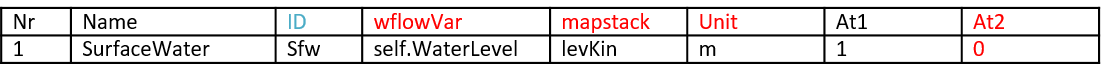
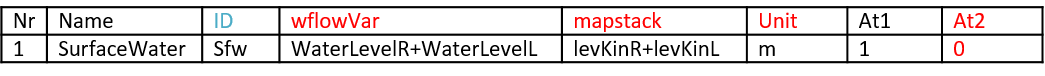
Lake update

Changed region(s): [[0.0, 0.0789, 1.0, 0.8158], [0.0, 0.1579, 0.1225, 0.3947], [0.7962, 0.5263, 0.8268, 0.6053]]

diff --git a/wflow/wflow_sbm.py b/wflow/wflow_sbm.py
@@ -1519,14 +1519,14 @@ class WflowModel(pcraster.framework.DynamicModel):
             
             np_lakeoutflowfunc_old = pcr.pcr2numpy(self.LakeOutflowFunc, 0)
             self.LakeOutflowFunc = pcr.ifthenelse(
-                    pcr.pcrand(self.LakeOutflowFunc == 3, self.LakeStorFunc == 1),
-                    self.LakeOutflowFunc,
-                    2
+                    pcr.pcrand(self.LakeOutflowFunc == 3, self.LakeStorFunc != 1),
+                    2,
+                    self.LakeOutflowFunc
                     )
             self.LakeOutflowFunc = pcr.ifthenelse(
-                    pcr.pcrand(self.LakeOutflowFunc == 3, self.Lake_e == 2.0),
-                    self.LakeOutflowFunc,
-                    2
+                    pcr.pcrand(self.LakeOutflowFunc == 3, self.Lake_e != 2.0),
+                    2,
+                    self.LakeOutflowFunc
                     )
             np_lakeoutflowfunc = pcr.pcr2numpy(self.LakeOutflowFunc, 0)
             if np_lakeoutflowfunc_old.sum() != np_lakeoutflowfunc.sum():

diff --git a/wflow/wflow_hbv.py b/wflow/wflow_hbv.py
@@ -644,13 +644,13 @@ class WflowModel(pcraster.framework.DynamicModel):
             np_lakeoutflowfunc_old = pcr.pcr2numpy(self.LakeOutflowFunc, 0)
             self.LakeOutflowFunc = pcr.ifthenelse(
                     pcr.pcrand(self.LakeOutflowFunc == 3, self.LakeStorFunc == 1),
-                    self.LakeOutflowFunc,
-                    2
+                    2,
+                    self.LakeOutflowFunc
                     )
             self.LakeOutflowFunc = pcr.ifthenelse(
                     pcr.pcrand(self.LakeOutflowFunc == 3, self.Lake_e == 2.0),
-                    self.LakeOutflowFunc,
-                    2
+                    2,
+                    self.LakeOutflowFunc
                     )
             np_lakeoutflowfunc = pcr.pcr2numpy(self.LakeOutflowFunc, 0)
             if np_lakeoutflowfunc_old.sum() != np_lakeoutflowfunc.sum():

diff --git a/wflow/wflow_emwaq.py b/wflow/wflow_emwaq.py
@@ -2053,6 +2053,8 @@ def main(argv=None):
     if os.path.exists(emiFile):
         includeEmi = True
         emiData = pd.read_csv(emiFile, sep = sepcsv, header=0)
+    else:
+        includeEmi = False
     
     logger.info("Nb of compartments: " + str(len(comp)))
     logger.info("Nb of boundaries: " + str(len(bound)))

diff --git a/doc/wflow_emwaq.rst b/doc/wflow_emwaq.rst
@@ -1,18 +1,18 @@
 wflow_emwaq Module
 ==================
 
-The wflow\_emwaq module provides a set of functions to create and link a Delft3D-WAQ or D-Emission model to a wflow model. The module allows to both converts static and dynamic data from wflow\_sbm to readable structure 
-and flow data used to set up an emission or a water quality model in Delft3D (later referred to as D-Emission and D-WAQ).
+The wflow\_emwaq module provides a set of functions to create and link a Delft3Delwaq or D-Emission model to a wflow model. The module allows to both converts static and dynamic data from wflow\_sbm to readable structure, flow and emission 
+data used to set up an emission or a water quality model (later referred to as D-Emission and Delwaq).
 
-It is an extension of the wflow\_delwaq module that only handles the surface water for a D-WAQ model. In addition, the script can aggregate results from wflow cells to build an emission/water quality model at the sub-catchment 
+It is an extension of the wflow\_delwaq module that only handles the surface water for a Delwaq model. In addition, the script can aggregate results from wflow cells to build an emission/water quality model at the sub-catchment 
 scale instead. The module has yet only been tested for wflow\_sbm but could as well be applied to other wflow models.
 
-Basic concepts on the structure of wflow and D-Emission/WAQ
+Basic concepts on the structure of wflow and D-Emission/Delwaq
 -----------------------------------------------------------
 The wflow\_sbm model is a fully distributed hydrologic model working on a regular grid of cells. Each cell is composed of several layers (or water buckets) such as open water, the unsaturated store or saturated store 
 of the soil… (figure below) The link between each cell (or direction of the lateral water flow) is then defined according to the local drain direction map (ldd) which indicates which of the cell neighbours has the lowest elevation.
 
-D-Emission or D-WAQ are unstructured models. They are composed of unordered segments. Contrary to a wflow cell which contains several layers a D-Emission/WAQ segment only represent one layer, called a compartment. 
+D-Emission or Delwaq are unstructured models. They are composed of unordered segments. Contrary to a wflow cell which contains several layers a D-Emission/WAQ segment only represent one layer, called a compartment. 
 This means that one wflow cell is represented by several segments in D-Emission/WAQ: one for the open water, one for the unsaturated store, one for the saturated store… The direction of the flows in D-Emission/WAQ between 
 each segment is defined in the pointer file. Contrary to wflow ldd which only needs to define the direction of lateral flows, the pointer file therefore also needs to indicate the direction of vertical flows (flows between 
 the different layers/compartments of a same wflow cell). This also means that external flows coming to/out of a wflow cell (for example precipitation from the atmosphere) are defined in the pointer as flows between a segment 
@@ -41,11 +41,11 @@ wflow\_emwaq module is run to convert the outputs of wflow\_sbm into several fil
 wflow\_sbm and via three csv tables that selects the compartments, fluxes and boundaries that the user wants to include in the D-Emission/WAQ models. Finally, the links to the different files created by the wflow\_emwaq 
 module are written in D-Emission/WAQ main input file and the emission and water quality model can be run.
 
-.. figure:: _images/emwaq_scheme.png
+.. figure:: _images/emwaq_scheme.jpg
     :width: 400px
     :align: center
 
-    Scheme of the coupling between wflow and D-Emission-D-WAQ.
+    Scheme of the coupling between wflow and D-Emission-Delwaq.
 
 
 Setting up the coupling
@@ -62,7 +62,7 @@ layers/compartments of a wflow cell with their corresponding volumes.
 
     Complete wflow scheme.
 
-For example, for a simple D-WAQ run for the surface water with fraction calculation, only the surface water compartment is needed and all the fluxes coming in/out of it as shown in the left part of the following figure. 
+For example, for a simple Delwaq run for the surface water with fraction calculation, only the surface water compartment is needed and all the fluxes coming in/out of it as shown in the left part of the following figure. 
 In that case, the other compartments are turned into boundaries. In addition, as there is already a wflow variable that sums up all the in/outflows from the surface water (self.Inwater), the scheme can be simplified with 
 just one boundary and flow (right part of the following figure).
 
@@ -70,7 +70,7 @@ just one boundary and flow (right part of the following figure).
     :width: 640px
     :align: center
 
-    Compartments and fluxes needed for a D-WAQ fraction model (left: with all the fluxes, right: simplified).
+    Compartments and fluxes needed for a Delwaq fraction model (left: with all the fluxes, right: simplified).
 
 Once the needed compartments and fluxes have been defined, they have to be translated into inputs for the wflow\_emwaq module. This is done by editing the csv tables compartments.csv, fluxes.csv and boundaries.csv. 
 
@@ -79,12 +79,12 @@ The compartments.csv file is a table composed of eight columns (Table 1, columns
 -  Nr: number of the compartment. This field is not used by the python script of the module but is defined for user information.
 -  ID: simplified identifier for the compartment, usually a few letters. The user can choose any name but IDs must be consistent with the ones in the fluxes.csv and boundaries.csv files.
 -  Name: name of the compartment. This field is not used by the python script of the module but is defined for user information.
--  wflowVar: wflow\_sbm variable representing the volume of the compartment (as in the complete scheme above). If the compartment isn’t defined or doesn’t have a volume defined in wflow\_sbm, for example Sewage or Paved, the keyword ZeroMap can be used. 
--  mapstack: name of the PCRaster or NetCDF mapstack (storage of the output variables). Mapstack are defined in the wflow_sbm ini file by the user. Note that the maximum allowed number of characters is eight. If the compartment doesn’t have a volume defined in wflow_sbm, for example Paved or Unpaved, the keyword ZeroMap can be used.
--  Unit: unit of the compartment volume, usually either mm or m3 for wflow volumes. If the volume is in mm, the script will convert it into m3 which is the standard for D-WAQ.
+-  wflowVar: wflow\_sbm variable representing the volume of the compartment (as in the complete scheme above). If the compartment isn’t defined or doesn’t have a volume defined in wflow\_sbm, for example Sewage or Paved, the keyword ZeroMap can be used. Several wflow variables can be summed up to create one WAQ flux using '+' symbol between variables.
+-  mapstack: name of the PCRaster or NetCDF mapstack (storage of the output variables). Mapstack are defined in the wflow_sbm ini file by the user. Note that the maximum allowed number of characters is eight. If the compartment doesn’t have a volume defined in wflow_sbm, for example Paved or Unpaved, the keyword ZeroMap can be used. Several wflow mapstacks can be summed up to create one WAQ flux using '+' symbol between mapstacks.
+-  Unit: unit of the compartment volume, usually either mm or m3 for wflow volumes. If the volume is in mm, the script will convert it into m3 which is the standard for Delwaq.
 -  At1, At2: D-Emission/WAQ attributes of the compartments. Usually attribute 1 specifies if the compartments is active or passive and attribute 2 specifies the type of the compartment (0 for surface water in 1D/2D models… see D-Emission/WAQ documentation). Here it is important that At2 is set to 0 for the Surface Water compartment and other numbers for the others.
 
-Table 1: Example of the compartmemts.csv file for a D-WAQ fraction model
+Table 1: Example of the compartmemts.csv file for a Delwaq fraction model
 
 .. figure:: _images/compartmentcsv.png
     :width: 640px
@@ -96,7 +96,7 @@ The boundaries.csv file, which is not used by the script but for user informatio
 -  ID: simplified identifier for the boundary, usually a few letters. The user can choose any names but IDs must be consistent with the ones in the fluxes.csv and compartments.csv files.
 -  Name: name of the boundary. This field is not used by the python script of the module but is defined for user information.
 
-Table 2: Example of the boundaries.csv file for a D-WAQ fraction model
+Table 2: Example of the boundaries.csv file for a Delwaq fraction model
 
 .. figure:: _images/boundarycsv.png
     :width: 640px
@@ -108,13 +108,13 @@ The fluxes.csv file is a table composed of nine columns (Table 3, columns in red
 -  Name: name of the flux. This field is not used by the python script of the module but is defined for user information. For a coupling with D-Emission, this field is used to create the parameters name of the hydrology file. An “f” will be added at the beginning of the name if the flux unit is in fraction.
 -  From: simplified identifier for the compartment or boundary where the flow comes from, usually a few letters. The user can choose any name but IDs must be consistent with the ones in the compartments.csv and boundaries.csv files.
 -  To: simplified identifier for the compartment or boundary where the flow goes to, usually a few letters. The user can choose any name but IDs must be consistent with the ones in the compartments.csv and boundaries.csv files.
--  wflowVar: wflow_sbm variable representing the flux (as in Figure 3). If the flux is not defined in wflow_sbm, for example flux between the Sewage compartment and Surface Water in an emission model, the keyword ZeroMap can be used. 
--  mapstack: name of the PCRaster or NetCDF mapstack (storage of the output variables). Mapstack are defined in the wflow_sbm ini file by the user. Note that the maximum allowed number of characters is eight. If the flux is not defined in wflow_sbm, for example flux between the Sewage compartment and Surface Water in an emission model, the keyword ZeroMap can be used.
--  Unit: unit of the flux, usually either mm or m3/s for wflow fluxes. If the flux is in mm, the script will convert it into m3/s which is the standard for D-WAQ or D-Emission.
--  EmPointerHyd: specificity of the emission model. In the coupling between wflow and D-Emission, both the pointer file between each segment and actual fluxes data (hydrology.bin file) are saved. While the two files are consistent in D-WAQ, this is not the case for D-Emission where some fluxes may only be present in the pointer but not the hydrology file and vice-versa. To take that into account the following keywords are used: P for a flux only present in the pointer file, H for a flux only present in the hydrology file and PH for a flux present in both. Note: D-Emission also needs an additional flow recorded in the hydrology file which is the “TotalFlow” that sums up some of wflow\_sbm fluxes to the surface water. If a wflow flux is needed for the calculation of the “TotalFlow”, the keywords T, PT, HT or PHT are used depending if the flow is also needed for the pointer and/or hydrology file. 
+-  wflowVar: wflow_sbm variable representing the flux (as in Figure 3). If the flux is not defined in wflow_sbm, for example flux between the Sewage compartment and Surface Water in an emission model, the keyword ZeroMap can be used. Several wflow variables can be summed up to create one WAQ flux using '+' symbol between variables.
+-  mapstack: name of the PCRaster or NetCDF mapstack (storage of the output variables). Mapstack are defined in the wflow_sbm ini file by the user. Note that the maximum allowed number of characters is eight. If the flux is not defined in wflow_sbm, for example flux between the Sewage compartment and Surface Water in an emission model, the keyword ZeroMap can be used. Several wflow mapstacks can be summed up to create one WAQ flux using '+' symbol between mapstacks.
+-  Unit: unit of the flux, usually either mm or m3/s for wflow fluxes. If the flux is in mm, the script will convert it into m3/s which is the standard for Delwaq or D-Emission.
+-  EmPointerHyd: specificity of the emission model. In the coupling between wflow and D-Emission, both the pointer file between each segment and actual fluxes data (hydrology.bin file) are saved. While the two files are consistent in Delwaq, this is not the case for D-Emission where some fluxes may only be present in the pointer but not the hydrology file and vice-versa. To take that into account the following keywords are used: P for a flux only present in the pointer file, H for a flux only present in the hydrology file and PH for a flux present in both. Note: D-Emission also needs an additional flow recorded in the hydrology file which is the “TotalFlow” that sums up some of wflow\_sbm fluxes to the surface water. If a wflow flux is needed for the calculation of the “TotalFlow”, the keywords T, PT, HT or PHT are used depending if the flow is also needed for the pointer and/or hydrology file. 
 -  EmFraction: for emission modelling some fluxes units have to be converted to fraction of the volume of the compartment from which they come from. For those fluxes the keyword 1 is used, else 0.
 
-Table 3: Example of the fluxes.csv file for a D-WAQ fraction model
+Table 3: Example of the fluxes.csv file for a Delwaq fraction model
 
 .. figure:: _images/fluxcsv.png
     :width: 640px
@@ -122,7 +122,7 @@ Table 3: Example of the fluxes.csv file for a D-WAQ fraction model
 
 **Specificities of the coupling with D-Emission**
 
-Setting up an emission model from wflow\_sbm is less straightforward than for D-WAQ and the coupling script has therefore further requirements needed.  For example, an emission model can contain compartments that are not present
+Setting up an emission model from wflow\_sbm is less straightforward than for Delwaq and the coupling script has therefore further requirements needed.  For example, an emission model can contain compartments that are not present
 in wflow\_sbm, for example the Sewage compartment (figure below). To add this compartment, a new compartment line in the compartments.csv is added and as for the Paved or Unpaved compartments that don’t have any volume, 
 the corresponding wflowVar and mapstack column values are ZeroMap. Then additional fluxes linked to the Sewage compartments are also added. There are two of them: a flux from the Sewage to the Surface Water compartment 
 and a second flux from the Sewage to a Waste Water Treatment Plant boundary. As these fluxes are not defined in wflow\_sbm, the corresponding wflowVar and mapstack values are again ZeroMap.
@@ -133,7 +133,7 @@ and a second flux from the Sewage to a Waste Water Treatment Plant boundary. As 
 
     Example of an emssion model including a Sewage compartment.
 
-Then, contrary to D-WAQ, wflow\_sbm fluxes are not saved in a flow.dat file that represents exactly the pointer structure but rather in a hydrology.bin file that only saves some of the fluxes. This means that some wflow\_sbm 
+Then, contrary to Delwaq, wflow\_sbm fluxes are not saved in a flow.dat file that represents exactly the pointer structure but rather in a hydrology.bin file that only saves some of the fluxes. This means that some wflow\_sbm 
 fluxes are needed just in the pointer or in the hydrology file. In addition, in the hydrology file, an additional flow recorded is the “TotalFlow” that sums up some of wflow_sbm fluxes to the surface water. These fluxes may 
 already be needed for the pointer or the hydrology file or just for the “TotalFlow”. In order to tell the coupling code which flux is needed where, the column EmPointerHyd is added in the fluxes.csv file. This column is filled 
 with specific keywords:
@@ -154,6 +154,23 @@ and is filled with 1 if the wflow_sbm flux needs to be converted in fraction of 
 
 If aggregation of wflow\_sbm results from the cell to the subcatchment scale is needed, then the variable representing the volume of the surface water in wflow_sbm must be self.KinWaveVolume. This is because the surface area 
 of the surface water compartment is not always the cell area but can also be the river surface area for wflow river cells.
+
+Adding emissions maps
+`````````````````````
+The coupling can also prepare .inc emission data for D-Emission/WAQ, that are adapted to the wflow schematisation. In order to enable this option, emissions data must be prepared as wflow PCRaster map files and the links to these maps 
+written in an emissions.csv file. The emssions.csv file contains 5 columns (Table 4, columns in red need to be filled with precise keywords used in the coupling script, columns in blue only need to be consistent between the csv files):
+
+-  Nr: number of the emission data.
+-  Name: name of the emission
+-  To: ID of the compartment where the emission are located.
+-  Fileloc: the link to the .map emission file. Path is relative to the wflow model casename.
+-  AggType: if data need to be aggregated to the subcatchment level, identify the aggregation operation (total, average, maximum, minimum).
+
+Table 4: Example of the emissions.csv file
+
+.. figure:: _images/emissioncsv.png
+    :width: 640px
+    :align: center
 
 Setting up the wflow\_sbm run
 `````````````````````````````
@@ -190,6 +207,7 @@ As for wflow\_sbm, wflow\_emwaq also has its own ini file wflow\_emwaq.ini. The 
    -  compartments: link to the compartments.csv file.
    -  boundaries: link to the boundaries.csv file.
    -  fluxes: link to the fluxes.csv file.
+   -  emissions: link to the emissions.csv file. If no path is specified the coupling won't produce any emission data.
 
 -  run: similar than in wflow_sbm.ini. Required fields are:
 
@@ -210,8 +228,8 @@ As for wflow\_sbm, wflow\_emwaq also has its own ini file wflow\_emwaq.ini. The 
    -  write_ascii: dynamic data for D-Emission/WAQ are saved in binary files. If this option is on, an ASCII copy will also be created. Default is 0.
    -  write_structure: if on, structure data for D-Emission/WAQ are produced. Default is 1.
    -  write_dynamic: if on, dynamic data for D-Emission/WAQ are produced. Default is 1.
-   -  fraction: if on, produce additional structure files used for D-WAQ fraction mode. Default is 0.
-   -  emission: if on, a coupling for D-Emission will be prepared. If off, a coupling for D-WAQ will be prepared. Default is 0.
+   -  fraction: if on, produce additional structure files used for Delwaq fraction mode. Default is 0.
+   -  emission: if on, a coupling for D-Emission will be prepared. If off, a coupling for Delwaq will be prepared. Default is 0.
    -  fews: if on, additional files to use for FEWS or deltashell GUI will be produced. Default is 0.
    -  aggregation: if on, results from wflow_sbm will be aggregated from the cell to the subcatchment scale.
    
@@ -393,16 +411,16 @@ Once the pointer is created, the other structure files are created using a speci
 Creation of the flow file (either flow.dat or hydrology.bin)
 ~~~~~~~~~~~~~~~~~~~~~~~~~~~~~~~~~~~~~~~~~~~~~~~~~~~~~~~~~~~~
 
-For a coupling with D-WAQ for each wflow cells, the flow.dat file is constructed in the very same way as the pointer. Flows are read from lateral, to between 2 compartments to between boundaries and compartments and then in 
+For a coupling with Delwaq for each wflow cells, the flow.dat file is constructed in the very same way as the pointer. Flows are read from lateral, to between 2 compartments to between boundaries and compartments and then in 
 the order of their definition in the fluxes.csv table.  For each timestep, the corresponding wflow netcdf or map output will be read, and fluxes values saved row by row from the top left corner to the bottom right corner, 
 corresponding to the numbering of the wflow cells IDs.
 
 For a coupling with D-Emission for each wflow cells, as some fluxes are present in the pointer but not the hydrology file, another definition file hydrology.inc is created to give the order of the fluxes saved in the 
 hydrology.bin file and the corresponding segments affected in the pointer file. As the order of the fluxes definition is not important then, fluxes are saved one by one in the order of their definition in the fluxes.csv 
-table (and not from lateral to vertical fluxes). The “TotalFlow” is then added at the end. As for a D-WAQ coupling, for each timestep, the corresponding wflow netcdf or map output will be read and fluxes values saved row 
+table (and not from lateral to vertical fluxes). The “TotalFlow” is then added at the end. As for a Delwaq coupling, for each timestep, the corresponding wflow netcdf or map output will be read and fluxes values saved row 
 by row from the top left corner to the bottom right corner, corresponding to the numbering of the wflow cells IDs.
 
-If the aggregation option is on, the entire aggregated CSV tables of the different wflow variables are read in the order of the flow definition in the pointer file for D-WAQ (lateral then vertical) and in the order of their 
+If the aggregation option is on, the entire aggregated CSV tables of the different wflow variables are read in the order of the flow definition in the pointer file for Delwaq (lateral then vertical) and in the order of their 
 definition in the fluxes.csv table for D-Emission. As wflow already sorts the saved aggregated variables by ascending number of the subcatchment IDs, no restructuration of the variables CSV tables is needed.
 
 
